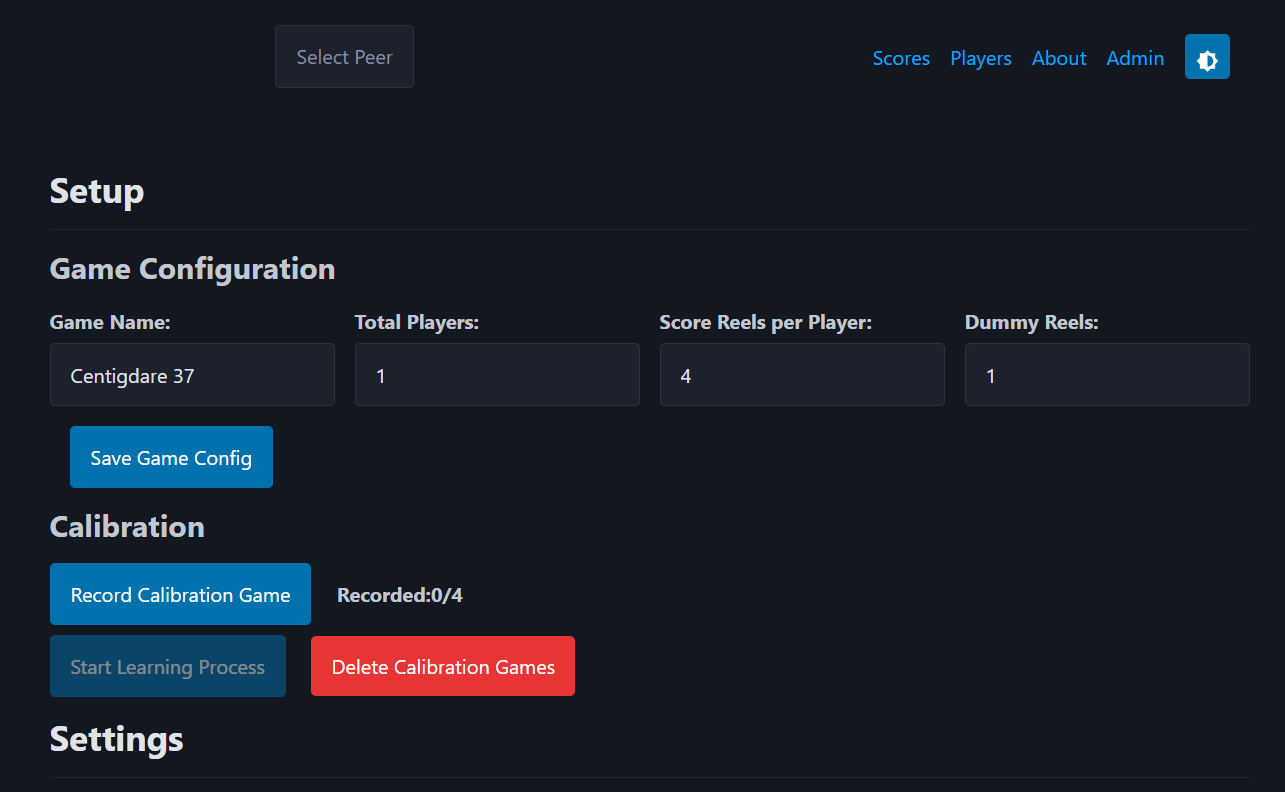
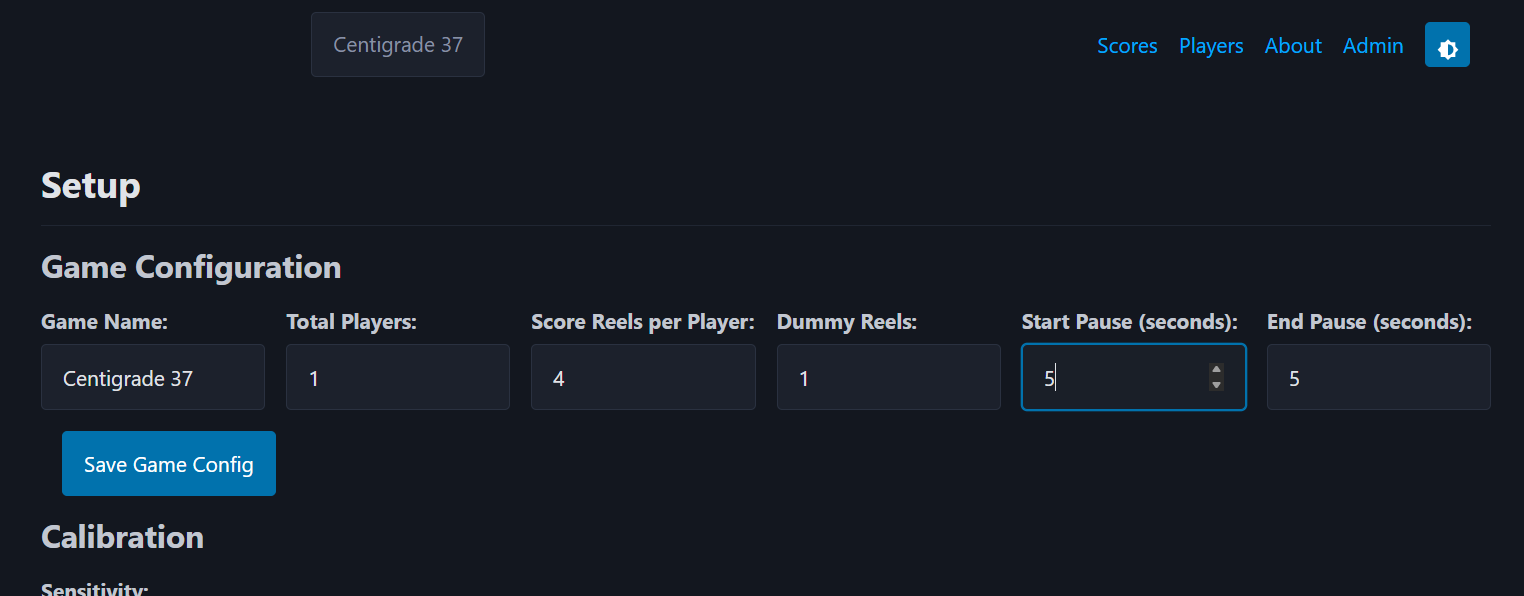
doc

diff --git a/src/em/displayMessage.py b/src/em/displayMessage.py
@@ -74,6 +74,7 @@ SEGMENTS = [
     0x73,  # P
     0x39   # C
 ]
+IDX_E = 12
 IDX_A = 13
 IDX_P = 14
 IDX_C = 15
@@ -292,7 +293,7 @@ def displayUpdate():
         p2_byte |= 0x80
 
     gameOverLED = gameActive()
-    if gameOverLED:
+    if not gameOverLED:
         p2_byte |= 0x40
 
     #deicde which input to put on digit display
@@ -301,14 +302,31 @@ def displayUpdate():
     elif 0 <= learnModeCounter <= 9:
         idx= learnModeCounter
     else:
-        ch = ipDigitDisplay[ipDigitUpNext]
-        ipDigitUpNext = (ipDigitUpNext + 1) % len(ipDigitDisplay)
+        # WIFI01 (bad password) / WIFI02 (network not found) have no other
+        # visible indicator on this board (no RGB status LED like other
+        # variants), so scroll them as "E1"/"E2" on the single digit instead
+        # of the IP address. Every other fault is left exactly as before -
+        # logged only, no display change.
+        wifi_fault_text = None
+        for _f in S.faults:
+            if _f.startswith("WIFI01"):
+                wifi_fault_text = "E1  "
+                break
+            if _f.startswith("WIFI02"):
+                wifi_fault_text = "E2  "
+                break
+        scroll_text = wifi_fault_text if wifi_fault_text else ipDigitDisplay
+
+        ch = scroll_text[ipDigitUpNext % len(scroll_text)]
+        ipDigitUpNext = (ipDigitUpNext + 1) % len(scroll_text)
         if '0' <= ch <= '9':
             idx = ord(ch) - ord('0')     # 0..9
         elif ch == '.':
             idx = 10
         elif ch == ' ':
             idx = 11                      # blank / space
+        elif ch == 'E':
+            idx = IDX_E
         elif ch == 'A':
             idx = IDX_A
         elif ch == 'P':

diff --git a/docs/guides/em/manual.md b/docs/guides/em/manual.md
@@ -20,8 +20,8 @@ How the Vector board installs on an Electro-Mechanical pinball machine, what the
 - [Connecting to local WiFi](#connecting-to-local-wifi)
 - [IP addresses](#ip-addresses)
 - [Configure your game](#configure-your-game)
-- [Sensor adjustment](#sensor-adjustment)
-- [Training games and learn mode](#training-games-and-learn-mode)
+- [Sensitivity adjustment](#sensitivity-adjustment)
+- [Play a few games](#play-a-few-games)
 - [Problems? Updates?](#problems-updates)
 
 ## How it works
@@ -37,13 +37,15 @@ The circuit board is installed in the back box of your Electro-Mechanical pinbal
 
 While we make every effort to make this an easy and safe process, damage to your game is possible and we cannot be responsible if something goes wrong. If you have never worked on EM games we encourage you to find someone who has and offer them some pizza to come help.
 
-Some things to watch for: static electricity can damage circuits. When working with the circuit board it is not a bad idea to touch the metal backplane before you touch electronics - just to make sure that charge you got walking across the carpet is gone.
+Some things to watch for: static electricity can damage circuits. When working with the circuit board it is not a bad idea to touch the metal frame before you touch electronics - just to make sure that charge you got walking across the carpet is gone.
 
 We offer email support and will do anything we can to help you enjoy Warped Pinball accessories. We cannot however be liable for any damage to yourself or machine.
 
+This Warped product counts the actual pulses sent to your score reels. The mechanical action of the reels does not always perfectly reflect the number of pulses - as a result, the Warped score can differ slightly from the score shown on the reels.
+
 ## Hardware installation - main board mounting
 
-SYS EM.Wifi main board will be installed on the inside of your back box. It is best to place the board on the inside of the vertical side wall. Every game is a little different, you want to find a spot where game wires will not touch the board and there is not a metal back plate to interfere with WiFi. Before committing to a location check score reel sensor cable lengths. There is a pack of short sensor leads and one with long sensor leads - make sure you mount the main board in a location where the required sensor leads can reach the score reel coils.
+SYS EM.Wifi main board will be installed on the inside of your back box. It is best to place the board on the inside of the vertical side wall. Every game is a little different, you want to find a spot where game wires will not touch the board and there is not a metal back plate to interfere with WiFi. Before committing to a location check score reel sensor cable lengths. There is a pack of short sensor leads and some with long sensor leads - make sure you mount the main board in a location where the required sensor leads can reach the score reel coils.
 
 The included mounting screws fit into and through the board plastic standoff spacers as shown. (Two are shown here - you can use all four if you want.)
 
@@ -75,7 +77,7 @@ Reels are always numbered 1, 10, 100, 1000, etc. from left to right as you look 
 
 ![Score reel numbering including a dummy reel](../../img/em/reel_numbering.jpg)
 
-Attach each sensor to a wire assembly before installing on the coil. If your coil paper is damaged you can use the included high-temperature tape dots to repair it before placing sensors. Use the longer wire ties - feeding around the coil and through the loop on the sensor circuit board. Note the "upside down" orientation of the sensor on the coil. This orientataion is very important,make sure the sensor faces down towards the coil. check that the sensor stays in position as you reinstall the score reel.
+Attach each sensor to a wire assembly before installing on the coil. If your coil paper is damaged you can use the included high-temperature tape dots to repair it before placing sensors. Use the longer wire ties - feeding around the coil and through the loop on the sensor circuit board. Note the "upside down" orientation of the sensor on the coil. This orientation is very important - make sure the sensor faces down towards the coil, and check that it stays in position as you reinstall the score reel. It is important that all the sensors are mounted in the same orientation and angle on each coil.
 
 ![Sensor assembly with connector](../../img/em/sensor_assembly.jpg)
 
@@ -128,25 +130,23 @@ Open a web browser on any computer on your local WiFi. Type the IP address in th
 
 ![Admin setup page with game configuration and calibration](../../img/em/admin_setup.png)
 
-## Sensor adjustment
+## Sensitivity adjustment
+
+With all the coil sensors installed, and your game powered up and in standby mode (game over mode), click the "Recalibrate" button. The process takes about a minute; during this time the display on the board will show the letter "C".
 
 Now set the sensitivity of the coil sensors for your specific game. Take the glass out so you can hit single targets on the playfield one at a time. Watch the green sensor LEDs on the main board while testing targets (good time to have a helper). The green LED under the correct connector should turn on briefly after the score reel increments. When a carry over occurs you will see two LEDs blink, one for each reel that is incremented.
 
 Watch carefully and note if the LED does not blink sometimes when the reel increments. If this is the case just press the "+" button on the main board once and retest. On the other hand if you see too many LEDs come on when reels are not incrementing, press the "-" button on the main board once and retest. Keep adjusting + or - as required until all score reels register correctly on the green LEDs.
 
-## Training games and learn mode
+Take time with this step, test each score type (1s, 10s, 100s, etc.) and each player. Make sure you see a single LED blink for each single score increment. You can adjust sensitivity on the web page or with the +/- button right on the board, whichever is more convenient.
 
-Click **Record Calibration Game** in the Admin panel.
+![Sensitivity adjustment buttons on the Admin page](../../img/em/sensitivy_buttons.png)
 
-![Record Calibration Game button](../../img/em/admin_record_calibration.png)
+## Play a few games
 
-Play a normal game with all players. After hitting the start button wait 8 seconds or more to plunge - give the computer time to keep up. During the game the number display on the main board will count up from 0 to 9 as you play. Your game must end at or before 9 is reached. Once the display is at 7 just let balls drain. Let the game end, wait a few seconds, and then continue on the computer. At the end of the game enter the actual scores into the web interface.
+There is further adjustment possible in the section below calibration and sensitivity, but changing these values usually isn't necessary. Try a few games, watching what happens on the Admin panel - each player's score is shown so you can compare it with the game score at any time.
 
-When you have at least two games recorded, the **Start Learning Process** button will enable.
-
-![Two calibration games recorded](../../img/em/admin_calibration_recorded.png)
-
-Click the button to start the process. Learning can take up to 15 minutes to complete. The number display on the main board will count down from 9 to 0 during the process. Once complete, your game is ready to play and enjoy online scoring!
+![Timing adjustment controls](../../img/em/timing.png)
 
 ## Problems? Updates?
 
